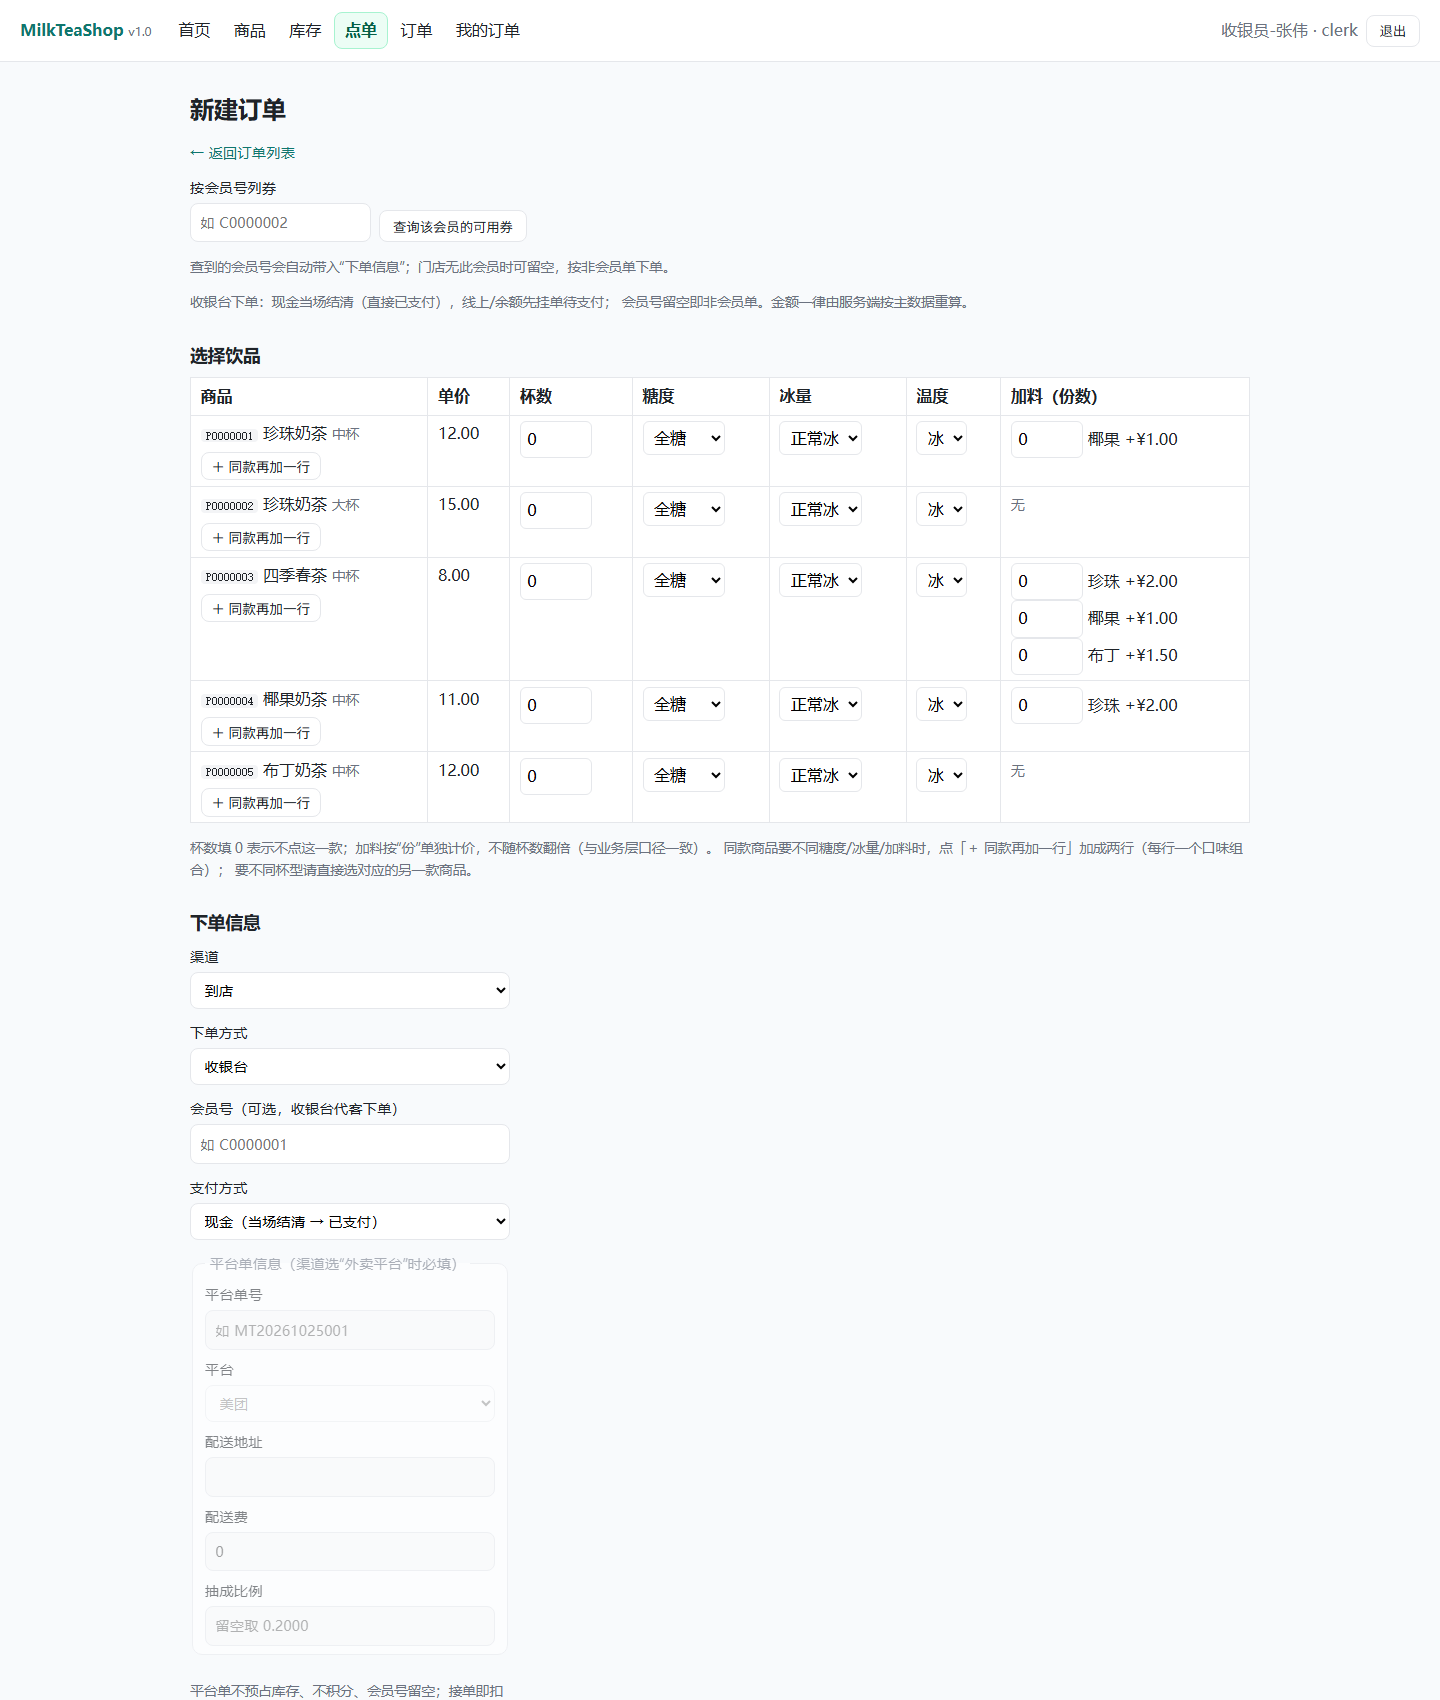
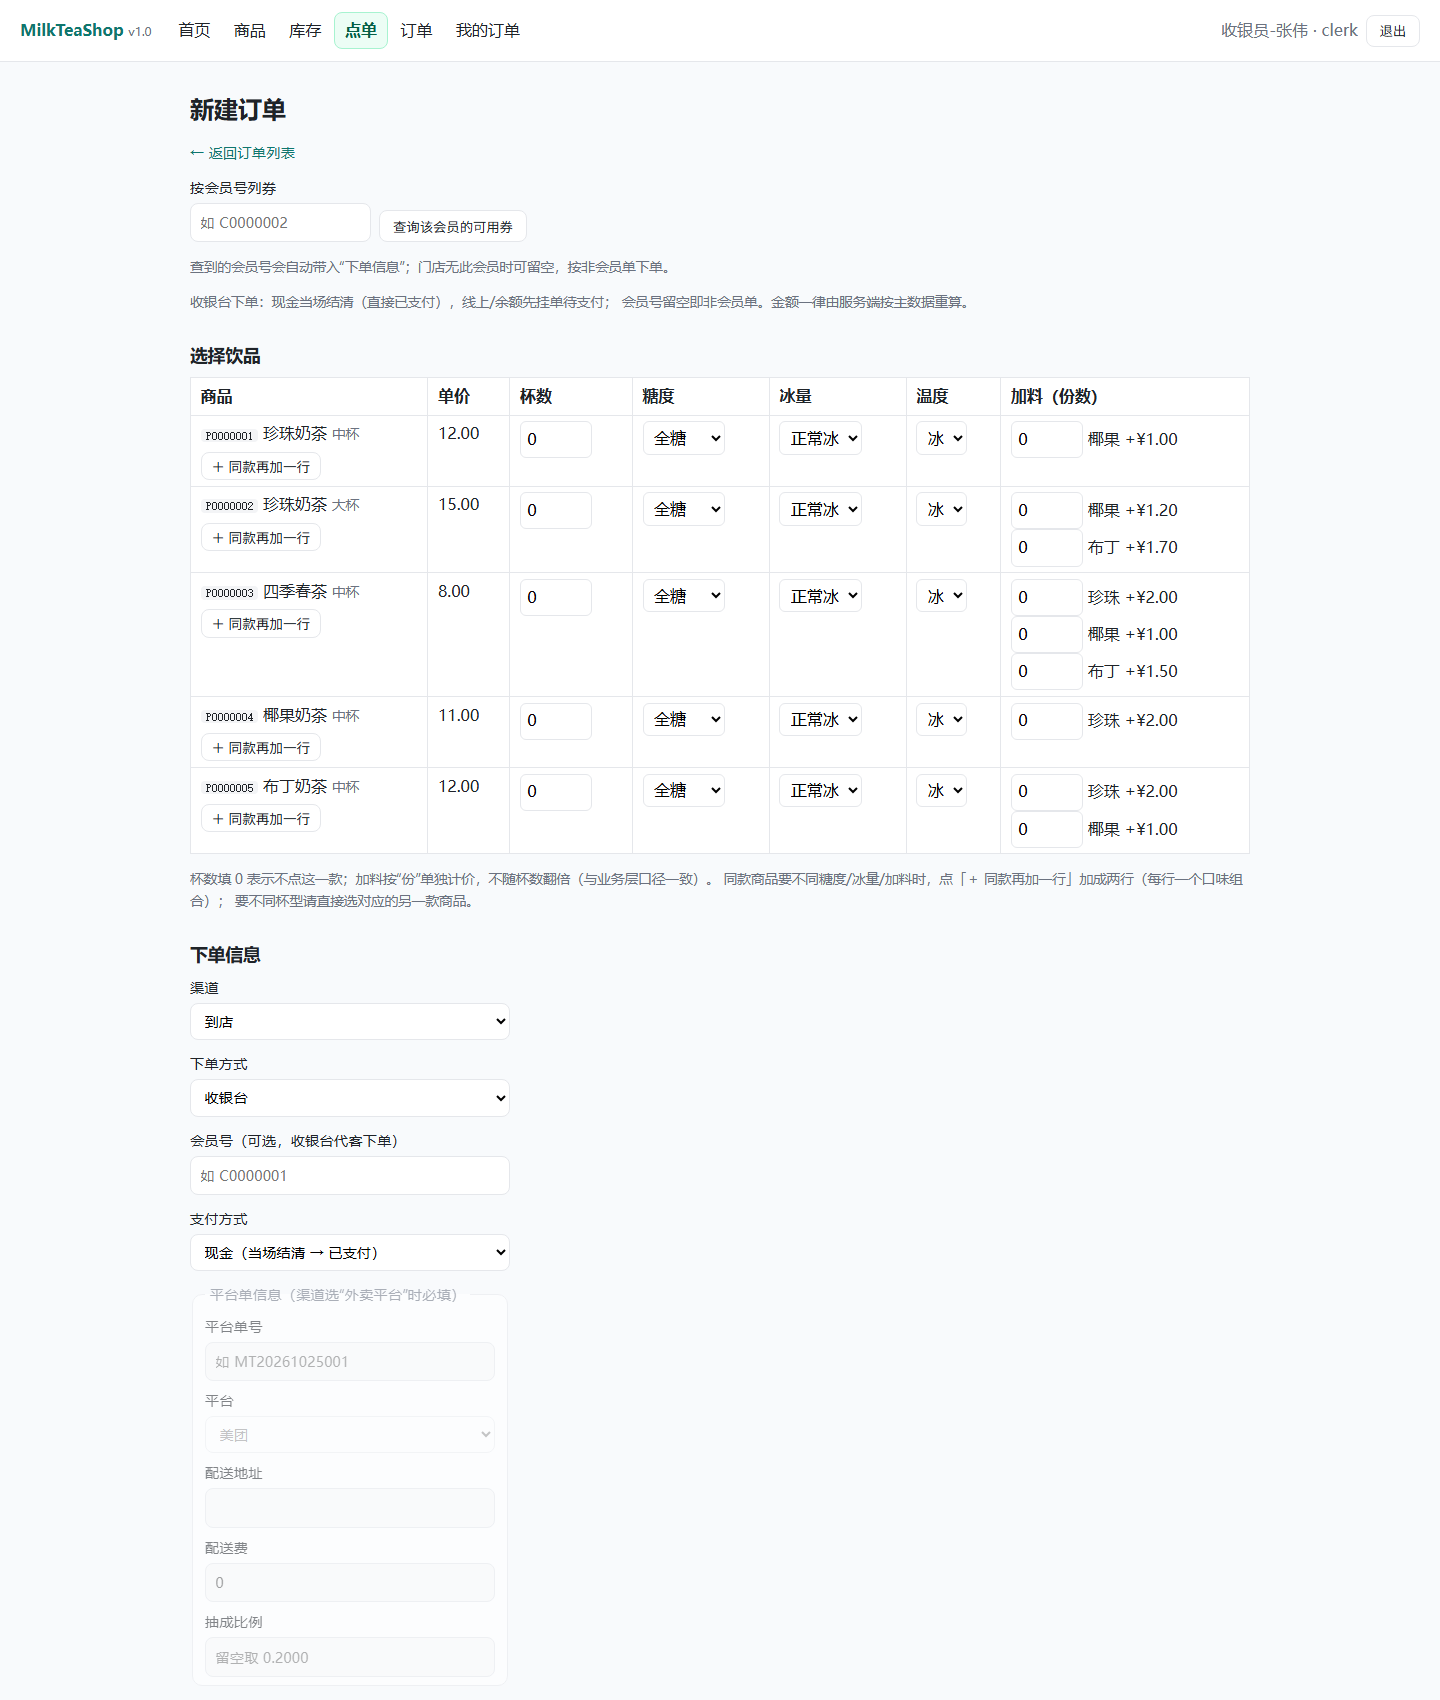
docs+evidence: seed 补数据后全链路重跑（131 行口径、10 份证据、15 张截图）
- 证据重刷（2026-11-11）：①② 骨架 31 项（指纹 236）、① 受限登录 17/17、③ DAO 37/37、
  ③角色 7/7、④ 业务层 29/29、⑤ 订单页面 141/141 ×2、⑥ 静态 4 + 行为 52 ×2、
  ⑦ 集成 132（PASS 128 / SKIP 4 / REF 0，REPRO-01 重建前后 110 列 / 45 CHECK / **131 行**）
  与 sql 轮（PASS 15 / REF 117）
- 截图 15 张重拍：下单页现在能看到大杯/布丁奶茶的加料选项（seed 补数据后的实际界面）
- 文档行数口径 127 → 131：README 复现步骤、docs/09 测试用例（含加料选项 9 条）、
  结构与运行（REPRO-01）、result/README；历史周记录里的 127 保持原样
- result/README 的截图生成说明补上"131 行 / 9 条加料选项"

diff --git a/result/README.md b/result/README.md
@@ -51,7 +51,7 @@
 > **2026-11-10 交付前全量重跑（trusted）**：因为商品重复提交的提示改了文案（`product_service._map_unique_conflict`）
 > 并在 PROD-04 加了断言，按“改测试就要重跑”的口径全量重跑一次并 **真跑 `--repro`**：
 > `result/第8周-⑦集成测试-20261110.txt`，**130 项 PASS 126 / FAIL 0 / SKIP 4 / REF 0**，
-> REPRO-01 重建前后均为 110 列 / 45 CHECK / 127 行。
+> REPRO-01 重建前后均为 110 列 / 45 CHECK / 131 行（2026-11-11 补 4 条加料选项后由 127 增至 131）。
 
 > **文件名里的「第N周」取实际开始周**，与 `docs/06` §二 的计划周次不完全一致：④⑤⑥ 计划列在第八周，
 > 实际启动于 10-25 前后，故沿用 `第7周-` 前缀；⑦ 按第八周命名。归档时以本节为准。
@@ -91,7 +91,7 @@
 
 > 对应任务讲解「结果目录：应用程序的完整流程——不同角色的完整业务流程、角色之间的权限差异」。
 > 生成方式（**2026-11-11 全量重拍**）：连真实 `MilkTeaShop_v01`，用应用自身的路由渲染各角色页面（测试客户端注入 session，**只发 GET、未改任何业务代码、未写库**），
-> 再把 `style.css` 内联进页面后由无头 Edge 截图（1440 宽，与旧图一致）。数据为 seed 原状（7 单 / 12 明细 / 36 流水 / 8 原料，截图前后一致）。
+> 再把 `style.css` 内联进页面后由无头 Edge 截图（1440 宽，与旧图一致）。数据为 seed 原状（17 表 **131 行**：7 单 / 12 明细 / 36 流水 / 8 原料 / 9 条加料选项；截图前后一致）。
 > 与旧版的差异：顶栏新增按权限显隐的主导航（首页/商品/库存/点单/订单/我的订单）、子页面标题下有面包屑、列表页有分页条、
 > 枚举已中文化（杯型/状态/流水类型）、时间统一到分钟、金额汇总行带 `¥`、库存调整有「类型」下拉（含**报损 LOSS**）、
 > 库存页底部有「最近库存流水」、下单页每行有「＋ 同款再加一行」。

diff --git a/docs/09-应用开发/测试用例.md b/docs/09-应用开发/测试用例.md
@@ -58,7 +58,7 @@
 
 **基线数据**（`02-seed.sql` 当前版本）：
 
-- 17 张表，127 行；7 张订单、12 条订单明细、3 条加料明细、36 条库存流水。
+- 17 张表，131 行；7 张订单、12 条订单明细、3 条加料明细、36 条库存流水、9 条加料选项（5 款商品中 4 款可加料）。
 - 商品 5、原料 8（`M0000008` 红豆：现存 600 < 安全库存 1000）、会员 3、券规则 2、会员持券 3。
 - `C0000001`：积分 118、余额 77.00；`C0000002`：待支付单 `202609160005`；`C0000003`：退款单 `202609160006`。
 - 订单 `202609160004` 为平台单，`order_platform` 有 1 行。
@@ -400,7 +400,7 @@ ORD-14  | 409  | 409  | PASS           | 无订单/流水残留
 
 **失败处理与已知限制**：本轮无 FAIL、无阻断项。4 条 SKIP 为 trusted 模式下的 DB 层权限用例
 （PERM-16/17/18、ERR-06），已在 sql 版证据中执行通过；REPRO-02 沿用第 6 周记录并在同一次运行里
-做了只读现状核对（指纹 236、7 单 / 12 明细 / 17 表 127 行）。
+做了只读现状核对（指纹 236、7 单 / 12 明细 / 17 表 131 行）。
 
 ---
 

diff --git a/README.md b/README.md
@@ -100,11 +100,11 @@
 
 ```powershell
 # 实例名按实际环境修改；这 6 步已由 ⑦ 的 REPRO-01 实测（在空实例上删库重建，6 步 exit=0，
-# 结果：17 表 / 110 列 / 45 CHECK / 127 行，与 v0.1 基线一致）
+# 结果：17 表 / 110 列 / 45 CHECK / 131 行，与 v0.1 基线一致）
 sqlcmd -S '.\SQLEXPRESS' -E -C -b -f 65001 -i sql/00-create.sql        # 删库建库
 sqlcmd -S '.\SQLEXPRESS' -E -C -b -f 65001 -i sql/01-schema.sql        # 17 张表（列/非空/默认值）
 sqlcmd -S '.\SQLEXPRESS' -E -C -b -f 65001 -i sql/constraint.sql       # 主码/候选码/外码/CHECK
-sqlcmd -S '.\SQLEXPRESS' -E -C -b -f 65001 -i sql/02-seed.sql          # 样例数据（17 表 127 行）
+sqlcmd -S '.\SQLEXPRESS' -E -C -b -f 65001 -i sql/02-seed.sql          # 样例数据（17 表 131 行）
 sqlcmd -S '.\SQLEXPRESS' -E -C -b -f 65001 -i sql/view.sql             # 4 个统计视图
 sqlcmd -S '.\SQLEXPRESS' -E -C -b -f 65001 -i sql/role.sql             # v0.1 角色与权限
 ```
